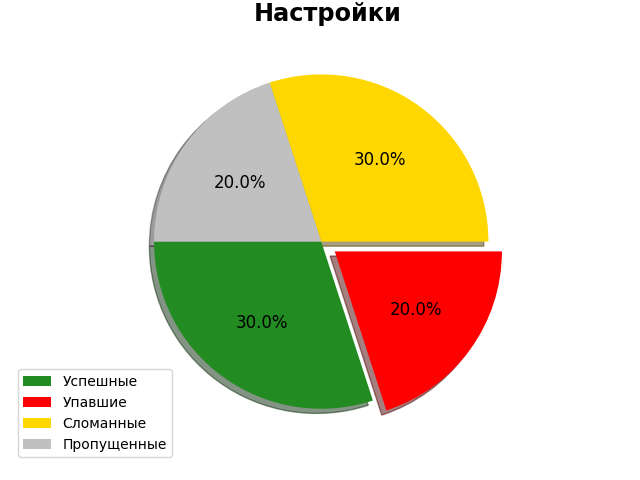
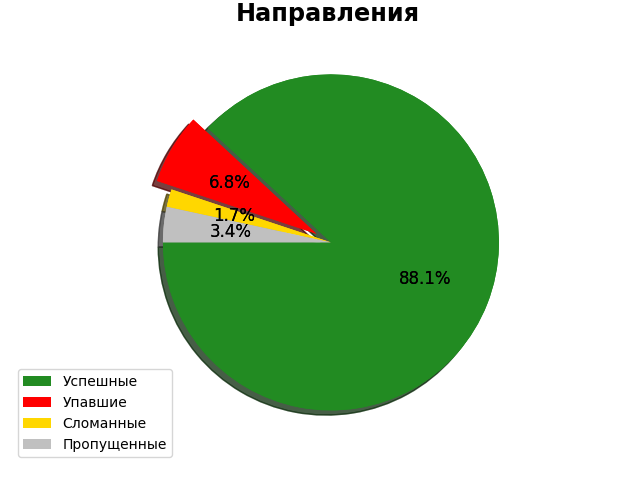
купуцп

Changed region(s): [[0.2188, 0.1562, 0.7812, 0.875], [0.375, 0.0, 0.6562, 0.0625], [0.375, 0.6562, 0.4688, 0.6875]]

diff --git a/allure_bot/allure_bot.py b/allure_bot/allure_bot.py
@@ -39,10 +39,39 @@ class CreateAllure:
         self.chat = self.data_config()['chat']
         self.reportLink = self.data_config()['reportLink']
         self.environment = self.data_config()['environment']
-        labels = ['Успешные', 'Упавшие', 'Сломанные', 'Пропущенные']
-        values = [self.passed, self.failed, self.broken, self.skipped]
-        colors = ['#228B22', '#FF0000', '#FFD700', '#C0C0C0']
-        explode = [0.0, 0.1, 0.0, 0.0]
+
+        testValues = [
+            {
+                'label': "Успешные",
+                'value': self.passed,
+                'color': '#228B22',
+                'explode': 0.0
+            },
+            {
+                'label': "Упавшие",
+                'value': self.failed,
+                'color': '#FF0000',
+                'explode': 0.1
+            },
+            {
+                'label': "Сломанные",
+                'value': self.broken,
+                'color': '#FFD700',
+                'explode': 0.0
+            },
+            {
+                'label': "Пропущенные",
+                'value': self.skipped,
+                'color': '#C0C0C0',
+                'explode': 0.0
+            }
+        ]
+
+        labels = [obj["label"] for obj in testValues if obj["value"] > 0]
+        values = [obj["value"] for obj in testValues if obj["value"] > 0]
+        colors = [obj["color"] for obj in testValues if obj["value"] > 0]
+        explode = [obj["explode"] for obj in testValues if obj["value"] > 0]
+
         plt.title(f'{self.name}\n', fontdict={'fontweight': 600, 'fontsize': 'xx-large'})
         plt.pie(values, colors=colors, explode=explode, shadow=True,
                 autopct='%1.1f%%', startangle=180, textprops={'size': 'large'})
